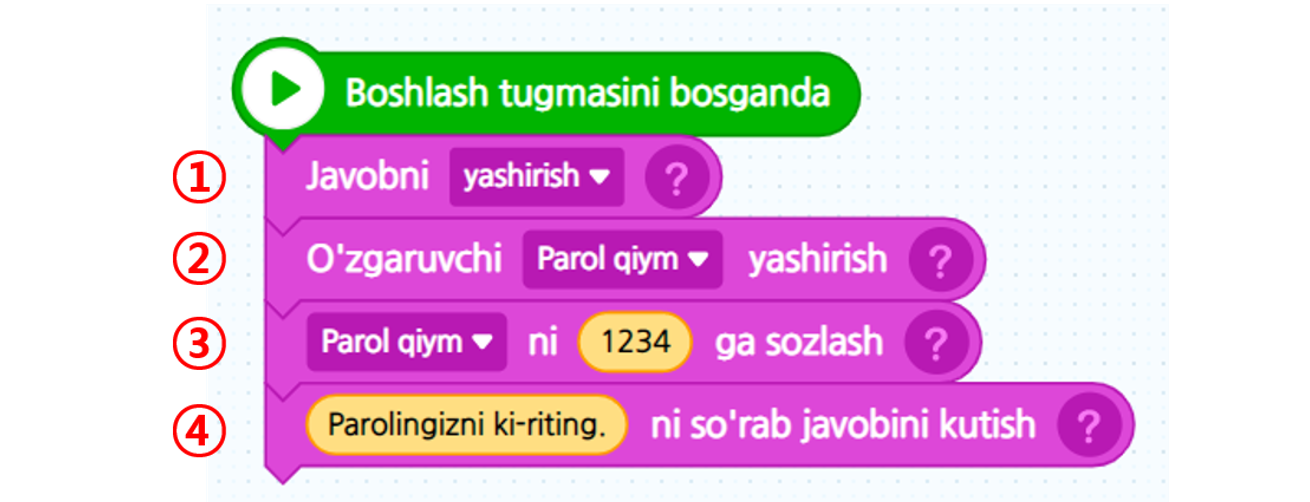
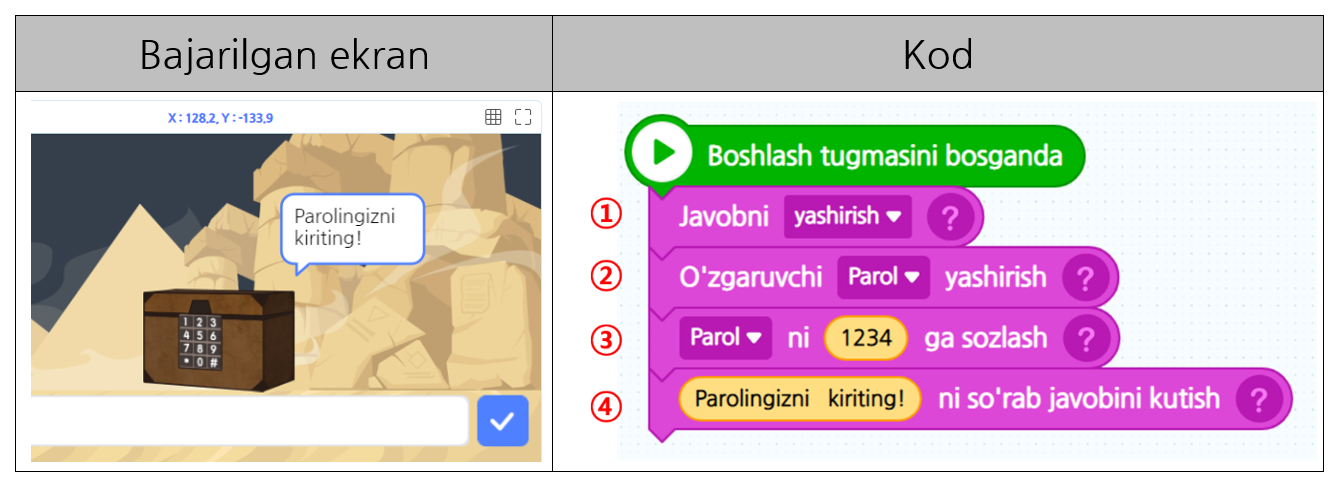
GitBook: [master] 13 pages and one asset modified

diff --git a/6-misol_kiritish_chiqarish.md b/6-misol_kiritish_chiqarish.md
@@ -4,39 +4,31 @@ description: Parolni kiritib xazina qutisıni ochamiz – Kiritish va chiqarish
 
 # 6-misol\_"Kiritish va chiqarish"
 
-Uyingizga kirgan paytingizda kalit o’rniga foydalaniladigan elektron qulfning asosini bilib olish qiziq emasmi? Xazina qutisiga parol apparatini ishlab chiqib ushbu darsdagi muhim tushuncha bo’lgan “O’zgaruvchi” dan foydalangan holda elektron qulf qanday asos orqali ishlashini bilib olamiz.
+Uyingizga kirgan paytingizda kalit o’rniga foydalaniladigan elektron qulfning asosini bilib olish qiziq emasmi? Xazina qutisiga parol apparatini ishlab chiqib ushbu darsdagi muhim tushuncha bo’lgan _“O’zgaruvchi”_ dan foydalangan holda elektron qulf qanday asos orqali ishlashini bilib olamiz.
 
 ### 1. Ekranda “Cho’l” bilan “Xazina qutisi” berilgan.
 
 ![](.gitbook/assets/006_001.png)
 
-### 2. O’zgaruvchidan foydalanib xazina qutisini ochib ko’ramiz. 
-
-Xazina qutisining parolini saqlaydigan joy – “Parol qiymati” degan o’zgaruvchi kerak bo’ladi. “Xususiyat” sahifasiga kirib o’zgaruvchini qo’shishni bosib “Parol qiymati” degan o’zgaruvchini yaratamiz.
+### 2. O’zgaruvchidan foydalanib xazina qutisini ochib ko’ramiz. Xazina qutisining parolini saqlaydigan joy – “Parol” degan o’zgaruvchi kerak bo’ladi. Tasmali penelidagi \[Xususiyat\] ni tanlab o’zgaruvchini qo’shishni bosib “Parol” degan o’zgaruvchini yaratamiz.
 
 ![](.gitbook/assets/006_002.png)
 
-### 3. “Parol qiymati” o’zgaruvchisi ekranda ko’rsatilsa bo’lmaganligi sababli uni yashirib,\(②\) xohlagan parol qiymatini tuzamiz.
-
-\(③\) Hamda parolni so'raydigan "~ni so'rab javobini kutish" blokini ketma-ket qo'yamiz.\(④\)
+### 3. “Parol” o’zgaruvchisi ekranda ko’rsatilsa bo’lmaganligi sababli uni yashirib\(②\), xohlagan parol qiymatini tuzamiz.\(③\) Hamda parolni so'raydigan "-ni so'rab javobini kutish" blokini ketma-ket qo'yamiz.\(④\)
 
 ![](.gitbook/assets/006_003.png)
 
 ![](.gitbook/assets/006_004.png)
 
-O’yinlardagi “ball”, raqam daftarchasidagi “Mening ismim” ga o’xshagan ma’lumotlarni kompyuter yodida saqlashi uchun nima qilishimiz kerak? “O’zgaruvchi” shunaqa ma’lumotlarni saqlash mumkin bo’lgan joy. Xazina qutisini ochish uchun o’zingiz bosgan parol bilan “parol qiymati”ni solishtirishingiz kerak, to'g’rimi? Shunaqa qilish uchun kompyuter parol qiymatini yodida saqlab turishi kerakligi sababli o’zgaruvchidan foydalaniladi. 
+O’yinlardagi “ball”, raqam daftarchasidagi “Mening ismim” ga o’xshagan ma’lumotlarni kompyuter xotirasida saqlashi uchun nima qilishimiz kerak? “O’zgaruvchi” shunaqa ma’lumotlarni saqlash mumkin bo’lgan joy. Xazina qutisini ochish uchun o’zingiz bosgan parol bilan oldin saqlab qo'ygan “parol qiymati”ni solishtirishingiz kerak, to'g’rimi? Shunaqa qilish uchun kompyuter parol qiymatini xotirasida saqlab turishi kerakligi sababli o’zgaruvchidan foydalaniladi. 
 
-O’zgaruvchiga erkin ravishda nom qo’yishingiz mumkin. Masalan, hozir bizlar yasayotgan xazina qutisining algoritmida “Parol qiymati” – bu o’zgaruvchining nomi. Shuningdek ushbu o’zgaruvchi ichiga son yoki belgini bir marta bir donadan saqlashingiz mumkin.
+O’zgaruvchiga erkin ravishda nom qo’yishingiz mumkin. Masalan, hozir bizlar yasayotgan xazina qutisining algoritmida “Parol qiymati” – bu o’zgaruvchining nomi. Shuningdek ushbu o’zgaruvchi ichiga sonli yoki yozuvni bir marta bir donadan saqlashingiz mumkin.
 
-### 4. Bizlar parolni bosganimizda qanday vaziyat kelib chiqadi? 
-
-Parolni to'g’ri kiritsak xazina qutisini ochishimiz mumkin, noto'g’ri kiritsak parolni qaytadan kiritishimiz kerak bo’ladi. Bu ikki xil holatni avval o’rgangan “Shart” belgisidan foydalanib ifodalashimiz mumkin.
+### 4. Bizlar parolni bosganimizda qanday vaziyat kelib chiqadi? Parolni to'g’ri kiritsak xazina qutisini ochishimiz mumkin, noto'g’ri kiritsak parolni qaytadan kiritishimiz kerak bo’ladi. Bu ikki xil holatni avval o’rgangan “Shart” blokidan foydalanib ifodalashimiz mumkin.
 
 ![](.gitbook/assets/p.25_01-_-.png)
 
-### 5. Agar Parolni to'g’ri kiritgan paytingizda, qarsak ovozi bilan birga xazinaga ega bo’lganlik haqida bildiradigan gapni qo’shib ko’ramizmi? 
-
-“Ovoz” bo’limiga borsangiz, oldindan “Qarsaklar”\(Standing Ovation\) ovozi bilan “Ogohlantiruvchi signal” \(Hazard Warning\) ovozi qo'shilgan. \[Ovoz\] kategoriyasining \[Ovozni -qaytadan qo'yish\] blogi orqali qarsak ovozi chiqadigandek quyidagi kabi yig’ib ko’ramiz.
+### 5. Agar Parolni to'g’ri kiritgan paytingizda, qarsak ovozi bilan birga xazinaga ega bo’lganlik haqida bildiradigan gapni qo’shib ko’ramizmi? Tasmali penelidagi \[Ovoz\] ni tanlasangiz, oldindan “Qarsaklar”\(Standing Ovation\) ovozi bilan “Ogohlantiruvchi signal” \(Hazard Warning\) ovozi qo'shilgan. \[Ovoz\] kategoriyasining "- ijro etish" blogi orqali qarsak ovozi chiqadigandek quyidagi kabi yig’ib ko’ramiz.
 
 ![](.gitbook/assets/006_006.png)
 
@@ -44,9 +36,7 @@ Parolni to'g’ri kiritsak xazina qutisini ochishimiz mumkin, noto'g’ri kirits
 
 ![](.gitbook/assets/006_007.png)
 
-### 7. Oxirgi marta parolni to’g’ri kirita olmagan paytingizda 
-
-“ogohlantiruvchi signal” ovoz ta’siri bilan “Olish Muvaffaqiyatsizlik!!” ni bildiradigan qilib quyidagi kabi bloklarni ketma-ket qo’ying.
+### 7. Oxirgi marta parolni to’g’ri kirita olmagan paytingizda “Ogohlantiruvchi signal” ovoz ta’siri bilan “Olish Muvaffaqiyatsizlik!!” ni bildiradigan qilib quyidagi kabi bloklarni ketma-ket qo’ying.
 
 ![](.gitbook/assets/006_008.png)
 

diff --git a/7-misol_jamlash.md b/7-misol_jamlash.md
@@ -4,21 +4,17 @@ description: “Ko’rsichqon” o’yinini yaratib ko’ramiz – Jamlash
 
 # 7-misol\_"Jamlash"
 
-Ko’ngil ochar joyida bir marta bo’lsa ham qilib ko’rgan o’yiningiz “Ko’rsichqon” o’yinini yasab ko’ramiz. O’tgan darslarda o’rgangan “Ketma-ketlik”, “Takrorlash”, “Shart”, “Xabar”, “O’zgaruvchi”dan foydalanib qiziqarli “Ko’rsichqon” oyinini yaratib ko’ramiz.
+Ko’ngil ochar joyida bir marta bo’lsa ham qilib ko’rgan o’yiningiz “Ko’rsichqon” o’yinini yasab ko’ramiz. O’tgan darslarda o’rgangan _“Ketma-ketlik”_, _“Takrorlash”_, _“Shart”_, _“Xabar”_, _“O’zgaruvchi”_dan foydalanib qiziqarli “Ko’rsichqon” oyinini yaratib ko’ramiz.
 
 ### 1. Obyekt ro’yxatidan rezina bolgʻacha obyektini tanlab rezina bolgʻachaning yo’nalishini bosib chap tarafga ozgina engashtiramiz.
 
 ![](.gitbook/assets/007_001.png)
 
-### 2. Rezina bolgʻacha sichqoncha ko’rsatkichini orqasidan davomiy ergashadigan qilib kodni ketma-ket qoying. 
-
-#### Sichqonchani boskaningizda, rezina bolgʻacha chap tarafga urganini aks etadi.
+### 2. Rezina bolgʻacha sichqoncha ko’rsatkichini orqasidan davomiy ergashadigan qilib kodni ketma-ket qoying. Sichqonchani bosganingizda, rezina bolgʻacha chap tarafga urganini aks etadi.
 
 ![](.gitbook/assets/007_002.png)
 
-### 3. Avvalo, “Ko’rsichqon” obyektini tanlaymiz. 
-
-“Ko’rsichqon” harakatga kelsagina rezina bolgʻacha bilan ko’rsichqonni urish zavqli, to'g’rimi? Buning uchun ko’rsichqon shakli ko’rinish va bekinish amallarini qilishi kerak. Ko’rsichqon harakatsizlikdan chiqishi kerak, shuning uchun \[Hisob\] kategoriyasidagi “-dan -o’rtasida harakatsizlik” blokini qo’yamiz.
+### 3. Avvalo, “Ko’rsichqon” obyektini tanlaymiz. “Ko’rsichqon” harakatga kelsagina rezina bolgʻacha bilan ko’rsichqonni urish zavqli, to'g’rimi? Buning uchun ko’rsichqon shakli ko’rinish va bekinish amallarini qilishi kerak. Ko’rsichqon tasodifiy chiqishi kerak, shuning uchun \[Hisob\] kategoriyasidagi “-dan -gacha tasodify soni” blokini qo’yamiz.
 
 ![](.gitbook/assets/007_003.png)
 
@@ -26,29 +22,23 @@ Ko’ngil ochar joyida bir marta bo’lsa ham qilib ko’rgan o’yiningiz “Ko
 
 ![](.gitbook/assets/007_004.png)
 
-### 5. Rezina bolgʻacha bilan ko’rsichqonni urganimizda qanday ishlar ro’y berishi kerak? 
-
-Ovoz chiqadigan qilib ovozni qo’shib ko’ramiz. “Ovoz” sahifasiga kirib “Ovoz qo’shish”ni bosgandan so’ng “Toy” degan ovozni izlab qo’shamiz. Endi ko’rsichqonni urganimizda ko’rsichqonning shaklini yashirib ballga 1tadan qo’shadigan qilib quyidagi kabi bloklarni yig’ib ko’ramiz.
+### 5. Rezina bolgʻacha bilan ko’rsichqonni urganimizda qanday ishlar ro’y berishi kerak? Ovoz chiqadigan qilib ovozni qo’shib ko’ramiz. Tasmali panelidagi \[Ovoz\] ni tanlab “Ovoz qo’shish”ni bosgandan so’ng “Toi” degan ovozni izlab qo’shamiz. Endi ko’rsichqonni urganimizda ko’rsichqonning shaklini yashirib ballga 1tadan qo’shadigan qilib quyidagi kabi bloklarni yig’ib ko’ramiz.
 
 ![](.gitbook/assets/007_005.png)
 
 ### 6. Ko’rsichqonni urganingizda ball ko’payadigan qilib bajarmoqchi bo’lsangiz dasturga ballni saqlash mumkin bo’lgan joy kerak bo’ladi. Shuning uchun O’zgaruvchi “Ball”ni qo’shing.
 
-※ Foydali maslahat\) O’zgaruvchini qo’shsangiz ijro ekranida o’zgaruvchan shakl paydo bo’ladi. Bu o’zgaruvchan shaklni sichqoncha bilan olib kelib xohlagan joyingizga harakatlatirishingiz mumkin.
+※ Foydali maslahat\) O’zgaruvchini qo’shsangiz ijro ekranida o’zgaruvchi natija paydo bo’ladi. Bu o’zgaruvchi natijani sichqoncha bilan olib kelib xohlagan joyingizga qo'yishingiz mumkin.
 
 ![](.gitbook/assets/007_006.png)
 
-### 7. Ko’rsichqonning hajmini yetarli darajada sozlab 
+### 7. Ko’rsichqonning hajmini yetarli darajada sozlab obyekt ro’yxatidagi ko’rsichqon obyekti ustiga sichqonchaning o’ng tarafidagi tugmani bosib bir necha ko’rsichqonni nusxalang. 
 
-obyekt ro’yxatidagi ko’rsichqon obyekti ustiga sichqonchaning o’ng tarafidagi tugmani bosib bir necha ko’rsichqonni nusxalang. 
-
-#### Foydali maslahat\) Obyektni nusxalasangiz berilgan obyekt ega bo’lgan kod, shakl va ovoz birgalikda nusxalanadi.
+※ Foydali maslahat\) Obyektni nusxalasangiz berilgan obyekt ega bo’lgan kod, shakl va ovoz birgalikda nusxalanadi.
 
 ![](.gitbook/assets/007_007.png)
 
-### 8. Nusxalangan ko’rsichqonlarni ekranga navbat bilan joylashtirib, 
-
-rezina bolgʻacha obyekti ro’yxatning eng yuqorisida joylashadigan qilib tepa tarafga olib kelib qo’yamiz.
+### 8. Nusxalangan ko’rsichqonlarni ekranga navbat bilan joylashtirib, rezina bolgʻacha obyekti ro’yxatning eng yuqorisida joylashadigan qilib tepa tarafga olib kelib qo’yamiz.
 
 ![](.gitbook/assets/007_008.png)
 

diff --git a/2-misol_takrorlash.md b/2-misol_takrorlash.md
@@ -4,7 +4,7 @@ description: Gul bargi bilan gul yasaymiz – Takrorlash
 
 # 2-misol\_"Takrorlash"
 
-O'tgan darsda _'Ketma-ketlik'_ haqida o'rgangan bo'lsangiz, ushbu darsda _'Takrorlash'_ tushunchasi to'g’risida bilib olamiz. Yo'lda yurib borayotganingizda yo'l chetida chiroyli gullarni ko'rganmisiz? Agar e'tibor bergan bo'lsangiz , bir xil shakldagi barglar takrorlanib gulning markazida hosil bo'lgan. Ushbu darsda takrorlash tushunchasi orqali chiroyli gulni yasab ko’ramiz. Unday bo’lsa “Entry” orqali _**"Takrorlash"**_ nı o’rganib ko’ramizmi?
+O'tgan darsda _"Ketma-ketlik'"_haqida o'rgangan bo'lsangiz, ushbu darsda _"Takrorlash"_ tushunchasi to'g’risida bilib olamiz. Yo'lda yurib borayotganingizda yo'l chetida chiroyli gullarni ko'rganmisiz? Agar e'tibor bergan bo'lsangiz , bir xil shakldagi barglar takrorlanib gulning markazida hosil bo'lgan. Ushbu darsda takrorlash tushunchasi orqali chiroyli gulni yasab ko’ramiz. Unday bo’lsa “Entry” orqali _**"Takrorlash"**_ nı o’rganib ko’ramizmi?
 
 ### 1. Pushti rang gul bargi obyektini qo'shing.
 
@@ -12,7 +12,7 @@ O'tgan darsda _'Ketma-ketlik'_ haqida o'rgangan bo'lsangiz, ushbu darsda _'Takro
 
 ### 2. Gulni yasash uchun gul bargining shakli bir xil bo'lib, lekin burchaklari\(gradusi\) farq qilishi kerak.  
 
-### Shunga asoslanib, \[Cho'tka\] kategoriyasidagi "Pechat qo'yish" bloki bilan \[Harakat\] kategoriyasidagi \[Aylanishini ~dan  aylantirish\] blokini olib kelib, ketma-ket qo’yıng.
+### Shunga asoslanib, \[Cho'tka\] kategoriyasidagi "Pechat qo'yish" bloki bilan \[Harakat\] kategoriyasidagi "Aylanishini - dan  aylantirish" blokini olib kelib, ketma-ket qo’yıng.
 
 ![](.gitbook/assets/002_002.png)
 
@@ -22,11 +22,11 @@ O'tgan darsda _'Ketma-ketlik'_ haqida o'rgangan bo'lsangiz, ushbu darsda _'Takro
 
 ![](.gitbook/assets/002_003.png)
 
-### 3. Faqat ikkita gulning bargi bilan gul yasay olmaysiz, to'g'rimi? Gulni yasash uchun bir nechta gul bargi kerak bo’ladi. Shuning uchun Gul bargini Pechatni 6 marta bosamiz.
+### 3. Faqat ikkita gulning bargi bilan gul yasay olmaysiz, to'g'rimi? Gulni yasash uchun bir nechta gul bargi kerak bo’ladi. Shuning uchun gul bargini pechat qilishga 6 marta qilamiz.
 
 ![](.gitbook/assets/002_004.png)
 
-### 4. Ekranga qaraganingizda kodlar juda uzun emasmı? Ekranda bır xıl bo’lgan kodlar 6 marta takrorlangan. Hozir barglarning soni unchalik ko’p bo’lmagani uchun tezda bajarishingiz mumkin, lekin quyidagi kod 100 marta takrorlansa “Gul bargini chizish” ni 100 marta qilsangiz judayam samarasiz bo’ladi. Shuning uchun yanada tez va oson bir nechta gul bargini yasamoqchi bo’lsangiz \[Oqim\] kategoriyasidagi “_~_marta takrorlash” blokını olib keling. Undan so’ng blokning son qismini “6”ga o’zgartirib dasturni ıjro ettirib ko’ring. “Takrorlash” blok orqali chiroyli gul yasadingiz. Endi esa gulning rangi bilan toifasini o'zgartirib ko'ring
+### 4. Ekranga qaraganingizda kodlar juda uzun emasmı? Ekranda bır xıl bo’lgan kodlar 6 marta takrorlangan. Hozir barglarning soni unchalik ko’p bo’lmagani uchun tezda bajarishingiz mumkin, lekin quyidagi kod 100 marta takrorlansa “Gul bargini chizish” ni 100 marta qilsangiz judayam samarasiz bo’ladi. Shuning uchun yanada tez va oson bir nechta gul bargini yasamoqchi bo’lsangiz \[Oqim\] kategoriyasidagi “-- marta takrorlash” blokını olib keling. Undan so’ng blokning son qismini “6”ga o’zgartirib dasturni ıjro ettirib ko’ring. “Takrorlash” blok orqali chiroyli gul yasadingiz. Endi esa gulning rangi bilan toifasini o'zgartirib ko'ring.
 
 ![](.gitbook/assets/002_005.png)
 

diff --git a/5-misol_ozgaruvchi.md b/5-misol_ozgaruvchi.md
@@ -4,17 +4,13 @@ description: Necha marta qo’lni yoyib sakirganligini sanab ko’ramiz – O’
 
 # 5-misol\_"O’zgaruvchi"
 
-Bola qo’lini yoyib sakrab sport bilan shug’ullanmoqchi. Turli xil obyektlarning shaklini o’zgartirib qo’lni yoyib sakrashni ifodalab ko’ramiz. Qo’lni yoyib sakrash sonini qanaqa qilib ifodalasa bo’ladi? “O’zgaruvchi”dan foydalanib bolaning necha marta qo’lini yoyib sakraganligini sanab ko’ramizmi?
+Bola qo’lini yoyib sakrab sport bilan shug’ullanmoqchi. Turli xil obyektlarning shaklini o’zgartirib qo’lni yoyib sakrashni ifodalab ko’ramiz. Qo’lni yoyib sakrash sonini qanaqa qilib ifodalasa bo’ladi? _**“O’zgaruvchi”**_ dan foydalanib bolaning necha marta qo’lini yoyib sakraganligini sanab ko’ramizmi?
 
 ### 1. Ekranda “Sportchi bola” obyekti ko’rsatilgan.
 
 ![](.gitbook/assets/005_001%20%281%29.png)
 
-### 2. “Sichqonchani bosganda” 
-
-bola qo’lini yoyib sakray oladigandek qilib \[Shakl\] sahifasida joylashgan shakllardan foydalanamiz. 
-
-Quyidagi kabi shakllarni almashtirib qo’lni yoyib sakrashni ifodalaymiz.
+### 2. “Sichqonchani bosganda” bola qo’lini yoyib sakray oladigandek qilib tasmali penelidagi \[Shakl\] ni tanlab uyerda joylashgan shakllardan foydalanamiz. Quyidagi kabi shakllarni almashtirib qo’lni yoyib sakrashni ifodalaymiz.
 
 ![](.gitbook/assets/005_002.png)
 
@@ -26,15 +22,15 @@ Quyidagi kabi shakllarni almashtirib qo’lni yoyib sakrashni ifodalaymiz.
 
 ### **“O’zgaruvchi” bu nima?** 
 
-O’yinlardagi “ball”, raqam daftarchasidagi “Mening ismim” ga o’xshagan ma’lumotlarni kompyuter yodida saqlashi uchun nima qilishimiz kerak? “O’zgaruvchi” shunaqa ma’lumotlarni saqlash mumkin bo’lgan joydir. O’zgaruvchiga erkin ravshda nom qo’yib va dasturning ijro jarayonida qiymatni kiritish, o’zgartirish, o’chirish amallarini qilishimiz mumkin. Bir o’zgaruvchida son yoki belgi qiymatini bir martada faqat bir donadan saqlash mumkinligini esingizda tuting!
+O’yinlardagi “ball”, raqam daftarchasidagi “Mening ismim” ga o’xshagan ma’lumotlarni kompyuter xotirasida saqlashi uchun nima qilishimiz kerak? “O’zgaruvchi” shunaqa ma’lumotlarni saqlash mumkin bo’lgan joydir. O’zgaruvchiga erkin ravshda nom qo’yib va dasturning ijro jarayonida qiymatni kiritish, o’zgartirish, o’chirish amallarini qilishimiz mumkin. Bir o’zgaruvchida sonli yoki yozuv qiymatini bir martada faqat bir donadan saqlash mumkinligini esingizda tuting!
 
-### 4. O’zgaruvchini qo’shganingizda ijro ekrani sahifasida quyida ko’rsatilgan “Xususiyat” sahifasidagi o’zgaruvchi “Marta”ni bossangiz asosiy qiymati 0ga qayta yuklanganini tasdiqlashingiz mumkin.
+### 4. O’zgaruvchini qo’shganingizda ijro ekranida quyida ko’rsatilganday ko'rinadi hamda \[Xususiyat\] dagi o’zgaruvchi “Marta”ni bossangiz asosiy qiymati 0ga qayta yuklanganini tasdiqlashingiz mumkin.
 
 ![](.gitbook/assets/005_005.png)
 
 
 
-### 5. Eng oxirida sonini \(marta\) sanagan paytingizda harakatni tamomlaganidan so’ng sonini \(martasini\) sanashingiz kerak. Bundan kelib chiqib, oxirida \[Fayl\] kategoriyasidagi “ga -dan qo’shish” blokini olib kelib ketma ket qo’ying.
+### 5. Eng oxirida sonini\(marta\) sanagan paytingizda harakatni tamomlaganidan so’ng sonini\(martasini\) sanashingiz kerak. Bundan kelib chiqib, bloklarning oxirida \[O'zgaruvchi\] kategoriyasidagi “- ga - dan qo’shish” blokini olib kelib ketma ket qo’ying.
 
 ![](.gitbook/assets/005_006.png)
 

diff --git a/3-misol_shart.md b/3-misol_shart.md
@@ -4,7 +4,7 @@ description: Changyutgich roboti to’siqni uchratsa nima bo’ladi? - Shart
 
 # 3-misol\_"Shart"
 
-Changyutgich robotini ko'rganmisiz? Chang yutgich roboti oldinga qarab harakatlanayotganida to'siqni uchratsa, harakatini o'zgartiradi. Ushbu darsda _'Tanlash'_ tushunchasidan foydalanib, changyutgich robotiga xonaning burchaklarini tozalashda yordam berib ko’ramiz.
+Changyutgich robotini ko'rganmisiz? Chang yutgich roboti oldinga qarab harakatlanayotganida to'siqni uchratsa, harakatini o'zgartiradi. Ushbu darsda _"Tanlash"_  tushunchasidan foydalanib, changyutgich robotiga xonaning burchaklarini tozalashda yordam berib ko’ramiz.
 
 ### 1. Ekranda "Yog'och pol" orqa foni va "Chang yutgich robot" obyektini qo’yamiz.
 
@@ -22,7 +22,7 @@ Changyutgich robotini ko'rganmisiz? Chang yutgich roboti oldinga qarab harakatla
 
 ![](.gitbook/assets/003_004.png)
 
-### 5. Changyutgich robot poldan chiqib ketib qayergadir ketayapti. Changyutgich robot poldan chiqib ketmasligi uchun nima qilishimiz kerak? Ha, to'g’ri shart qo’yishimiz kerak. Qizil chiziqda aks etilgan sirtqi qism – bu devor. Shunaqa qilib changyutgich robot devorga teggan paytida poldan chiqib ketmaydigan qilib kodni tuzib ko’ramiz. \[Oqim\] kategoriyasidagi “Agar – bo’lsa” bloki bilan \[Qaror\] kategoriyasidagi “—ga tegganmi?” blokini ketma-ket qo’yamiz. Shu joyda biroz to’xtang! Changyutgich robot pol to’liq tozalangunicha uzluksiz harakatlanishi kerak. Shuning uchun “Davomiy takrorlash”ni blokning ichiga kirgizamiz. safiga qo’shamiz. 
+### 5. Changyutgich robot poldan chiqib ketib qayergadir ketayapti. Changyutgich robot poldan chiqib ketmasligi uchun nima qilishimiz kerak? Ha, to'g’ri shart qo’yishimiz kerak. Qizil chiziqda aks etilgan sirtqi qism – bu devor. Shunaqa qilib changyutgich robot devorga teggan paytida poldan chiqib ketmaydigan qilib kodni tuzib ko’ramiz. \[Oqim\] kategoriyasidagi “Agar – bo’lsa” bloki bilan \[Qaror\] kategoriyasidagi “— ga tegganmi?” blokini ketma-ket qo’yamiz. Shu joyda biroz to’xtang! Changyutgich robot pol to’liq tozalangunicha uzluksiz harakatlanishi kerak. Shuning uchun “Davomiy takrorlash”ni blokning ichiga kirgizamiz. safiga qo’shamiz. 
 
 ※ Foydali maslahat: “Agar – bo’lsa” blokiga shart blokini kirgizgan paytingizda blokning chap uchini birlashtirsangiz blok oson yig’iladi.
 

diff --git a/oxirgi-xabar.md b/oxirgi-xabar.md
@@ -1,6 +1,6 @@
 # Oxirgi xabar
 
-Bu darslik bolalar dasturiy ta’minot ta’lim dasturi bo’lgan “Entry”ni yaxshilab tushunib o'rganish uchun o’zbek tiliga tarjima qilindi.
+Bu darslik bolalar dasturiy ta’minot ta’lim dasturi bo’lgan “Entry”ni yaxshilab tushunib o'rganish uchun O’zbek tiliga tarjima qilindi.
 
 Bu kitob hamma bepul dasturiy ta’minot ta’limini olishga yordam berish uchun ishlab chiqildi.
 
@@ -8,21 +8,21 @@ Ushbu darslikni ishlab chiqishda yaqindan yordam berganlarga o’z minnadorchili
 
 ![](.gitbook/assets/_-.png)
 
-Kirish Yozuvchi : JJ Lee
+**Qo'shimcha Yozuvchi** : JJ Lee, EuiHo Hong
 
-Tarjimon: Abdiualieva Gulshat
+**Tarjimon**: Abdiualieva Gulshat
 
-Tekshiruvchi: JJ Lee, Najimova Altinay
+**Tekshiruvchi**: JJ Lee, Najimova Altinay
 
-Asl mualliflik huquqi: CC-BY
+**Asl mualliflik huquqi**: CC-BY
 
-Asl nomi: [차근차근 따라하며 배우는 엔트리](https://playentry.org/material)
+**Asl nomi**: [차근차근 따라하며 배우는 엔트리](https://playentry.org/material)
 
-O'zg'artirilgan mazmun : Kirsh bo'lim qo'shish, O'zbek tiliga tarjima qilingan
+**O'zg'artirilgan mazmun** : O'zbek tiliga tarjima qilingan hamda Kirsh bo'lim va ba'zi joylarida yangi qo'shish
 
-Hujjatlar o'zgartirish tarixi : 2021.4.21 BIrinchi nashr
+**Hujjatlar o'zgartirish tarixi** : 22-April, 2021 yili BIrinchi nashr
 
 ![](.gitbook/assets/by-nc-sa.png)
 
-Ushbu hujjatning mazmuni "Creative Commons" Attribution 2.0 Koreya litsenziyasi ostida ishlatiladi. [http://creativecommons.org/licenses/by/2.0/kr/](http://creativecommons.org/licenses/by/2.0/kr/)
+Ushbu kitobning mualliflik huquqini "Creative Commons Attribution 2.0 Koreya litsenziyasi" ostida ishlatiladi. [http://creativecommons.org/licenses/by/2.0/kr/](http://creativecommons.org/licenses/by/2.0/kr/)
 

diff --git a/4-misol_xabar.md b/4-misol_xabar.md
@@ -18,7 +18,7 @@ Dars vaqtida yoki kompyuter ishlatayotganingizda “Rasm taxtasi” degan dastur
 
 ![](.gitbook/assets/004_003.png)
 
-### 4. Qalam orqali rasm chizib o'chirg’ich orqali o’chiradigan loyihani yaratib ko’ramiz. Buni yaratish uchun bugun ushbu darsda eng muhum tushuncha bo’lgan _"Xabar"_ to'g’risida o’rganamiz. Tasmali panelidagi “Xususiyat” bosib “O’chir” degan xabarni qo’shamiz.
+### 4. Qalam orqali rasm chizib o’chirg’ich orqali o’chiradigan loyihani yaratib ko’ramiz. Buni yaratish uchun bugun ushbu darsda eng muhum tushuncha bo’lgan _"Xabar"_ to'g’risida o’rganamiz. Tasmali panelidagi \[Xususiyat\] ni tanlab “O’chir” degan xabarni qo’shamiz.
 
 ![](.gitbook/assets/004_004.png)
 
@@ -26,7 +26,7 @@ Dars vaqtida yoki kompyuter ishlatayotganingizda “Rasm taxtasi” degan dastur
 
  _Bizlar “O’chirg’ich” obyektini bosganimizda, “Qalam” chizgan rasmlarning barchasi o’chirilishi kerak. Shundan kelib chiqib, qalam obyekti bilan o’chirg’ich obyekti o’rtasida o’zaro ta’sir bo’lishi uchun xabar foydalaniladi._
 
-### 5. Quyida berilgan oxirgi kodga qarab, qalam va o’chirg’ich xabar  almashadigan uslub va rasm taxtasi qanday qilib namoyon bo’ladiganligini yana bir marotaba tekshirib ko’ramiz.
+### 5. Quyida berilgan oxirgi kodga qarab, qalam va o’chirg’ich orasida xabarni  almashadigan uslub va rasm taxtasi qanday qilib namoyon bo’ladiganligini yana bir marotaba tekshirib ko’ramiz.
 
 ![](.gitbook/assets/004_006.png)
 

diff --git a/mundarija.md b/mundarija.md
@@ -20,5 +20,7 @@
 
 ###       ****[**7-misol**](7-misol_jamlash.md)**: “Ko’rsichqon” o’yinini yaratib ko’ramiz – Jamlash**
 
+## **4.** [**Oxirigi xabar**](oxirgi-xabar.md)\*\*\*\*
+
 
 
